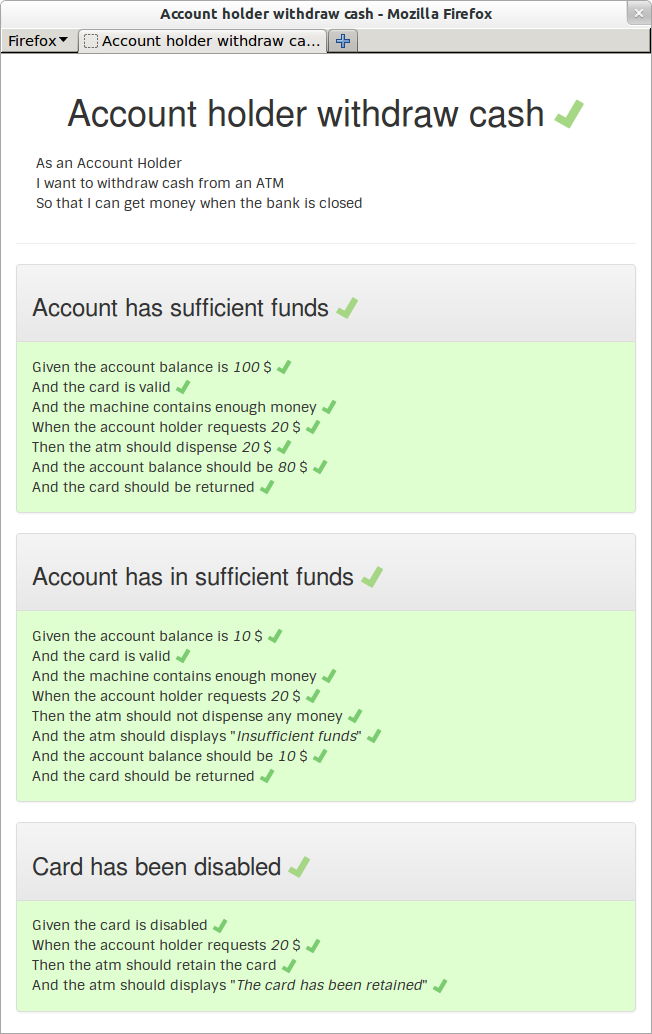
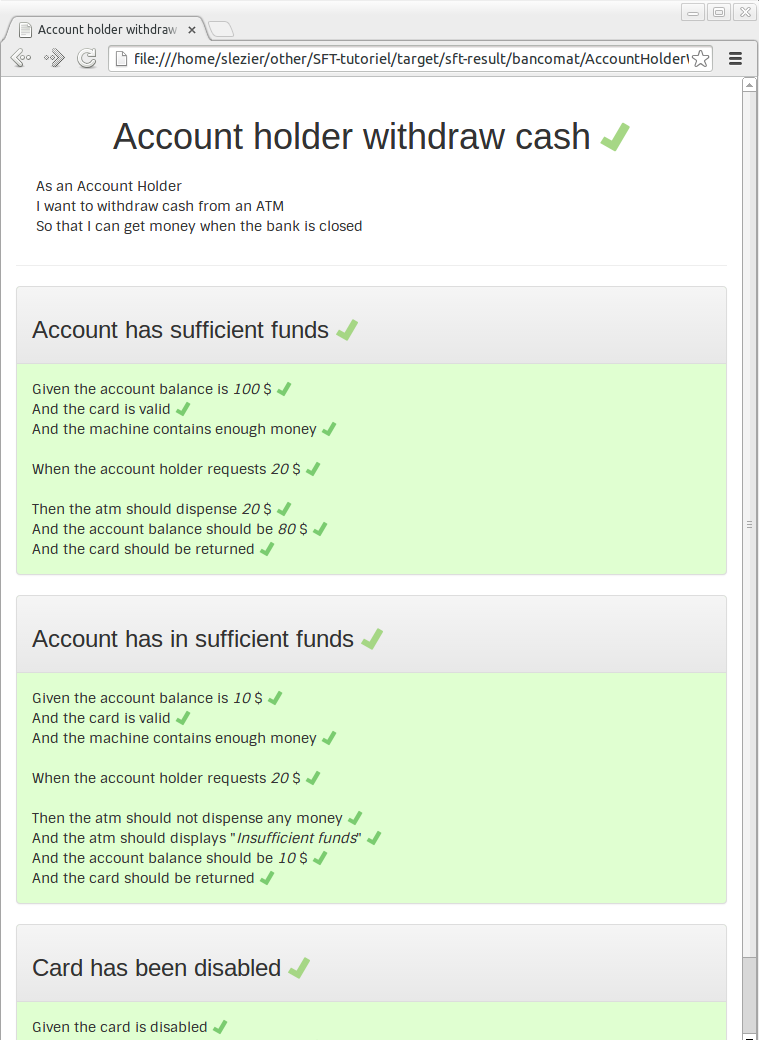
add Step 7

diff --git a/src/test/java/bancomat/AccountHolderWithdrawCash.java b/src/test/java/bancomat/AccountHolderWithdrawCash.java
@@ -5,13 +5,9 @@ import org.junit.Before;
 import org.junit.BeforeClass;
 import org.junit.Test;
 import org.junit.runner.RunWith;
-import sft.Decorate;
-import sft.Displayable;
-import sft.FixturesHelper;
-import sft.SimpleFunctionalTest;
-import sft.Text;
-import sft.decorators.Group;
+import sft.*;
 import sft.decorators.TableOfContent;
+import sft.plugins.sequenceDiagramPlugin.SequenceDiagram;
 
 import static org.junit.Assert.assertEquals;
 
@@ -23,6 +19,7 @@ So that I can get money when the bank is closed
 */
 @RunWith(SimpleFunctionalTest.class)
 @Decorate(decorator = TableOfContent.class)
+@Using(CustomConfiguration.class)
 public class AccountHolderWithdrawCash {
 
     public AccountHolderWithdrawCashAlternateCases accountHolderWithdrawCashAlternateCases = new AccountHolderWithdrawCashAlternateCases();
@@ -46,16 +43,16 @@ public class AccountHolderWithdrawCash {
         bankHelper.andTheCardIsValid();
         bankHelper.andTheMachineContainsEnoughMoney();
 
-        bankHelper.theAccountHolderRequests(20);
+        bankHelper.requestCash(20);
 
-        thenTheAtmShouldDispense(20);
+        dispenseCash(20);
         bankHelper.andTheAccountBalanceShouldBe(80);
-        bankHelper.andTheCardShouldBeReturned();
+        bankHelper.cardIsReturned();
     }
 
-    @Decorate(decorator = Group.class,parameters = BankHelper.THEN)
-    @Text("The atm should dispense  ${cash} $")
-    private void thenTheAtmShouldDispense(int cash) {
+    @Decorate(decorator = SequenceDiagram.class,parameters = "atm --> account_holder")
+    @Text("dispenses ${cash} $")
+    private void dispenseCash(int cash) {
         this.ticket= bankHelper.getHtmlTicket();
         assertEquals(bankHelper.withdrawals, cash);
     }

diff --git a/src/test/java/bancomat/AccountHolderWithdrawCashAlternateCases.java b/src/test/java/bancomat/AccountHolderWithdrawCashAlternateCases.java
@@ -3,10 +3,7 @@ package bancomat;
 import org.junit.Before;
 import org.junit.BeforeClass;
 import org.junit.Test;
-import sft.Decorate;
-import sft.Displayable;
-import sft.FixturesHelper;
-import sft.Text;
+import sft.*;
 import sft.decorators.Breadcrumb;
 import sft.decorators.Group;
 import sft.decorators.Table;
@@ -38,19 +35,20 @@ public class AccountHolderWithdrawCashAlternateCases {
         bankHelper.andTheCardIsValid();
         bankHelper.andTheMachineContainsEnoughMoney();
 
-        bankHelper.theAccountHolderRequests(20);
+
+        bankHelper.requestCash(20);
 
         theAtmShouldNotDispenseAnyMoney();
         andTheAtmShouldDisplay("Insufficient funds");
         bankHelper.andTheAccountBalanceShouldBe(10);
-        bankHelper.andTheCardShouldBeReturned();
+        bankHelper.cardIsReturned();
     }
 
     @Test
     public void  cardHasBeenDisabled(){
         bankHelper.andTheMachineContainsEnoughMoney();
         theCardIsDisabled();
-        bankHelper.theAccountHolderRequests(20);
+        bankHelper.requestCash(20);
         theAtmShouldRetainTheCard();
         andTheAtmShouldDisplay("The card has been retained");
     }
@@ -76,7 +74,7 @@ public class AccountHolderWithdrawCashAlternateCases {
 
     @Decorate(decorator = Table.class,parameters = "withdraws and cash received per visit")
     private void whenTheAccountHolderRequestsThenTheAtmProvidesCash(int amount, int cash) {
-        bankHelper.theAccountHolderRequests(amount);
+        bankHelper.requestCash(amount);
         assertEquals(cash,bankHelper.withdrawals);
         this.ticket= bankHelper.getHtmlTicket();
     }

diff --git a/src/test/java/bancomat/BankHelper.java b/src/test/java/bancomat/BankHelper.java
@@ -3,6 +3,7 @@ package bancomat;
 import sft.Decorate;
 import sft.Text;
 import sft.decorators.Group;
+import sft.plugins.sequenceDiagramPlugin.SequenceDiagram;
 
 import static org.junit.Assert.assertEquals;
 import static org.junit.Assert.assertTrue;
@@ -46,21 +47,21 @@ public class BankHelper {
         atm = bank.getAtm(1000);
     }
 
-    @Decorate(decorator = Group.class,parameters = WHEN)
-    @Text("The account holder requests ${amount} $")
-    public void theAccountHolderRequests(int amount) {
+    @Decorate(decorator = SequenceDiagram.class,parameters = "account_holder -> atm")
+    @Text("requests ${amount} $")
+    public void requestCash(int amount) {
         atmSession = atm.authenticate(user);
         withdrawals = atmSession.withdraw(amount);
     }
 
-    @Decorate(decorator = Group.class,parameters = THEN)
-    @Text("And the account balance should be ${balance} $")
+    @Decorate(decorator = SequenceDiagram.class,parameters = "atm -> atm")
+    @Text("account balance is ${balance} $")
     public void andTheAccountBalanceShouldBe(int balance) {
         assertEquals(account.balance(), balance);
     }
 
-    @Decorate(decorator = Group.class,parameters = THEN)
-    public void andTheCardShouldBeReturned() {
+    @Decorate(decorator = SequenceDiagram.class,parameters = "atm -> account_holder")
+    public void cardIsReturned() {
         assertTrue("Card not returned", atm.returnCard());
     }
 

diff --git a/src/test/java/bancomat/CustomConfiguration.java b/src/test/java/bancomat/CustomConfiguration.java
@@ -1,0 +1,11 @@
+package bancomat;
+
+import sft.DefaultConfiguration;
+import sft.plugins.sequenceDiagramPlugin.HtmlSequenceDiagram;
+import sft.plugins.sequenceDiagramPlugin.SequenceDiagram;
+
+public class CustomConfiguration extends DefaultConfiguration {
+    public CustomConfiguration() {
+        getReport().addDecorator(SequenceDiagram.class, HtmlSequenceDiagram.class);
+    }
+}

diff --git a/README.md b/README.md
@@ -10,6 +10,7 @@
 - [Step4: Manage context setup and teardown](step4-manage-context-setup-and-teardown)
 - [Step5: Displaying context informations](step5-displaying-context-informations)
 - [Step6: Decorated use cases](step6-decorated-use-cases)
+- [Step7: Decorated use cases](step7-enhance-and-extends)
 
 ## Functional and acceptance testing using SimpleFunctionalTest
 
@@ -109,36 +110,7 @@ _src/test/java/bancomat/AccountHolderWithdrawCash.java_:
 			andTheCardShouldBeReturned();
 		}
 
-		private void andTheCardShouldBeReturned() {
-			assertTrue("Card not returned", atm.returnCard());
-		}
-
-		private void andTheAccountBalanceShouldBe80Dollars() {
-			assertEquals(account.balance(), 80);
-		}
-
-		private void thenTheAtmShouldDispense20Dollars() {
-			assertEquals(withdrawals, 20);
-		}
-
-		private void whenTheAccountHolderRequests20Dollars() {
-			atmSession = atm.authenticate(user);
-			withdrawals = atmSession.withdraw(20);
-		}
-
-		private void andTheMachineContainsEnoughMoney() {
-			atm = bank.getAtm(1000);
-		}
-
-		private void andTheCardIsValid() {
-			account.addValidCreditCard("1234");
-		}
-
-		private void givenTheAccountBalanceIs100Dollars() {
-			bank = new Bank();
-			user = new User();
-			account = bank.createAccount(user, 100);
-		}
+		...
 
 	}
 
@@ -155,7 +127,7 @@ pom.xml:
 			<dependency>
 				<groupId>com.github.slezier</groupId>
 				<artifactId>SimpleFunctionalTest</artifactId>
-				<version>1.4</version>
+				<version>1.8</version>
 				<scope>test</scope>
 			</dependency>
 		</dependencies>
@@ -501,3 +473,109 @@ Produces:
 
 ![Group fixtures](./images/step6d.png "Group fixtures")     
         
+
+## Step7: Enhance and Extends
+
+What else ?...
+
+Access custom implementation of community !!!
+
+By adding the dependency to SimpleFunctionalTest plugin (as SequenceDiagramPlugin) :
+
+pom.xml:
+
+	<project>
+		...
+		<dependencies> 
+			...
+		        <dependency>
+           			 <groupId>com.github.slezier</groupId>
+	            		<artifactId>SequenceDiagramPlugin</artifactId>
+        	    		<version>0.1</version>
+				<scope>test</scope>
+        		</dependency>
+		</dependencies>
+	</project>
+
+adding a Custom configuration using this plugin:
+
+_src/test/java/bancomat/CustomConfiguration.java_:
+
+	...
+	public class CustomConfiguration extends DefaultConfiguration {
+		public CustomConfiguration() {
+			getReport().addDecorator(SequenceDiagram.class, HtmlSequenceDiagram.class);
+		}
+	}
+
+and using it: 
+
+_src/test/java/bancomat/AccountHolderWithdrawCash.java_:
+
+    ...
+    @Using(CustomConfiguration.class)
+    public class AccountHolderWithdrawCash {
+
+       ....
+
+       @Test
+       public void accountHasSufficientFunds() {
+           bankHelper.theAccountBalanceIs(100);
+           bankHelper.andTheCardIsValid();
+           bankHelper.andTheMachineContainsEnoughMoney();
+
+           bankHelper.requestCash(20);
+
+           dispenseCash(20);
+           bankHelper.andTheAccountBalanceShouldBe(80);
+           bankHelper.cardIsReturned();
+       }
+
+       @Decorate(decorator = SequenceDiagram.class,parameters = "atm --> account_holder")
+       @Text("dispenses ${cash} $")
+       private void dispenseCash(int cash) {
+           this.ticket= bankHelper.getHtmlTicket();
+           assertEquals(bankHelper.withdrawals, cash);
+       }
+       ...
+    }
+
+_src/test/java/bancomat/AccountHolderWithdrawCash.java_:
+
+    ...
+    public class BankHelper {
+
+        ...
+    
+        @Decorate(decorator = SequenceDiagram.class,parameters = "account_holder -> atm")
+        @Text("requests ${amount} $")
+        public void requestCash(int amount) {
+            atmSession = atm.authenticate(user);
+            withdrawals = atmSession.withdraw(amount);
+        }
+
+        @Decorate(decorator = SequenceDiagram.class,parameters = "atm -> atm")
+        @Text("account balance is ${balance} $")
+        public void andTheAccountBalanceShouldBe(int balance) {
+            assertEquals(account.balance(), balance);
+        }
+
+        @Decorate(decorator = SequenceDiagram.class,parameters = "atm -> account_holder")
+        public void cardIsReturned() {
+            assertTrue("Card not returned", atm.returnCard());
+        }
+
+        ...
+    }
+
+
+You can access community enhancement (as SequenceDiagram decorator) :
+
+![Group fixtures](./images/step7.png "SequenceDiagram decorator") 
+
+And more : 
+
+- Customize html generation with your company copyrigth for example
+- Add or change css
+- Change decorator behavior 
+- Change source and target folder
